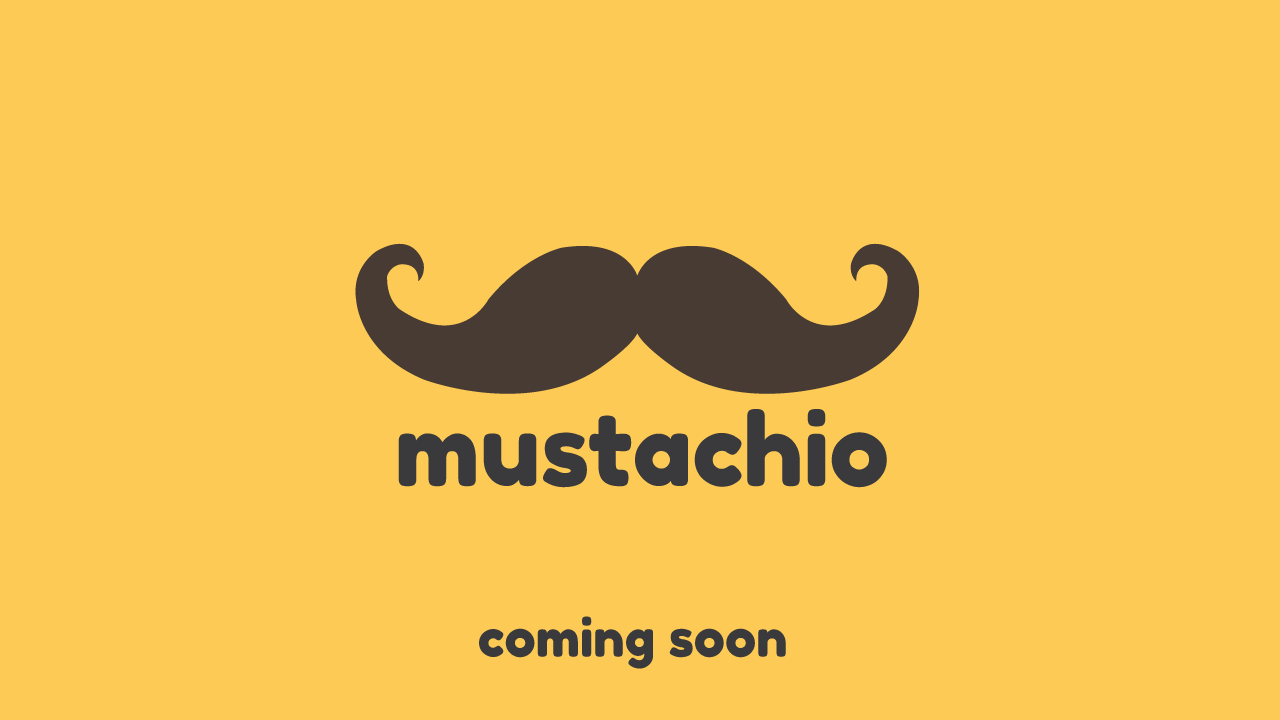
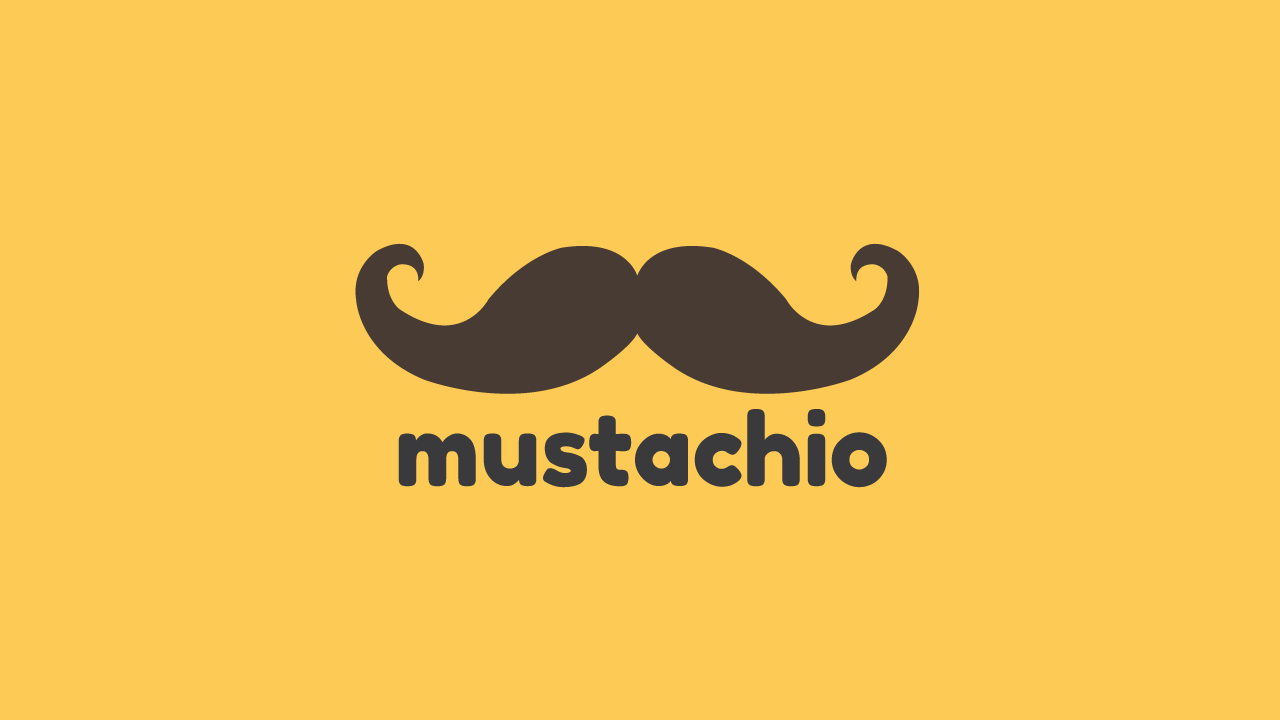
mustachio update

Changed region(s): [[0.375, 0.8556, 0.625, 0.9167]]

diff --git a/mustachio/index.html b/mustachio/index.html
@@ -24,7 +24,7 @@
 	<script type="text/javascript" src="../fullPage/jquery.fullPage.js"></script>
 
 	<script type="text/javascript">
-		$(document).ready(function () {
+		$(document).ready(function() {
 			$('#fullpage').fullpage({
 				sectionsColor: ['#FDCB55', '#ffffff', '#ffffff'],
 				anchors: ['work', 'work', 'work'],
@@ -32,6 +32,7 @@
 				scrollOverflow: true,
 			});
 		});
+
 	</script>
 
 </head>
@@ -51,12 +52,24 @@
 					<img src="images/mustachioIntro.png" class="imageResponsive introImg">
 				</div>
 				<div class="pure-u-md-9-24 pure-u-1-1 introPad">
-					<h2 class="">Mustachio - Coming Soon</h2>
+					<h2 class="">Mustachio - iOS Beard Journal</h2>
 					<p class="">Since the dawn of time, men have grown beards and mustaches. Some men aspire to be Canadian Lumber Jacks. Some desire a strokable mustache as they quietly drink scotch next to a crackling fire. Others just want to stay warm in the winter. Regardless of the reason, beards and mustaches are grown alike. However, is it not a shame you can’t track your mustaches glorious growth in a daily journal? Fret no longer my friend! Mustachio is here for you!</p>
 					<h2 class="">My Role</h2>
 					<p class="">Mustachio is a journal application that helps you track and document your beard/mustaches journey to maturity. Take pictures, give commentary and look back on your less bearded (less cool) self from two weeks ago!</p>
-					<p class="">Mustachio is a Swift iOS app I'm currently developing. Stay Tuned.</p>
+					<p class="">Git Hub: <a href="https://github.com/chasbrouck/mustachio">https://github.com/chasbrouck/mustachio</a></p>
 				</div>
+			</div>
+		</div>
+		<div class="section" id="section1">
+			<div class="pure-g pad-nav">
+				<div class="pure-u-md-4-24 pure-u-0-1"></div>
+				<div class="pure-u-md-16-24 pure-u-1-1">
+					<img src="images/Launch.png" class="imageQuarter">
+					<img src="images/Tab%20View%20Delete.png" class="imageQuarter">
+					<img src="images/Entry%20View.png" class="imageQuarter">
+					<img src="images/Gallery%20Mode.png" class="imageQuarter">
+				</div>
+
 			</div>
 		</div>
 	</div>

diff --git a/css/app.css b/css/app.css
@@ -201,6 +201,9 @@ p {
 .imageResponsive {
 	width: 100%;
 }
+.imageQuarter {
+	width: 24%;
+}
 
 .mountain {
 	color: var(--mountain);
